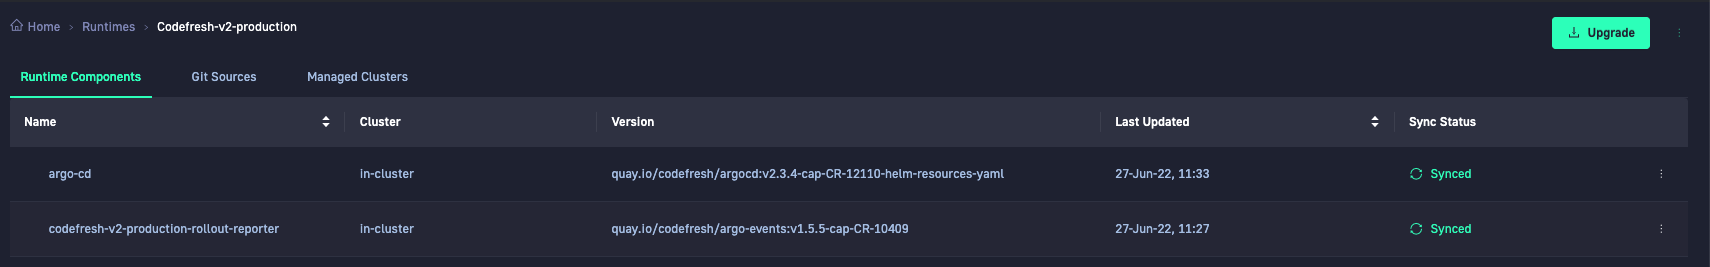
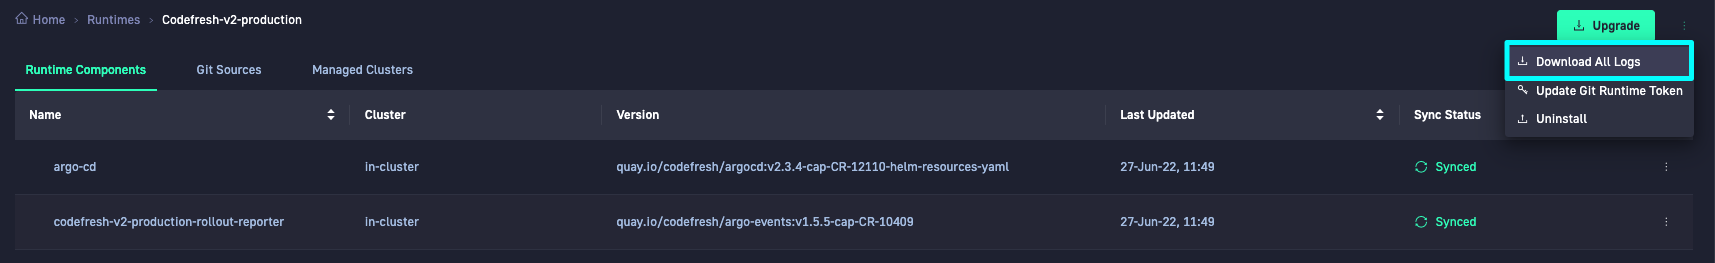
Update whats new and title in toolbar
Fixed captions for runtime screenshots

diff --git a/_includes/docs-navbar.html b/_includes/docs-navbar.html
@@ -38,7 +38,7 @@
         </li>
 -->
         <li class="nav-item">
-          <a class="nav-link" href="{{ site.baseurl }}/docs/whats-new/whats-new/" onclick="ga('send', 'event', 'Navbar', 'Docs links', 'Open Changelog');" >What's new</a>
+          <a class="nav-link" href="{{ site.baseurl }}/docs/whats-new/whats-new/" onclick="ga('send', 'event', 'Navbar', 'Docs links', 'Open Changelog');" >What's New</a>
         </li>
 
         {% comment %}

diff --git a/_docs/whats-new/whats-new.md b/_docs/whats-new/whats-new.md
@@ -33,8 +33,8 @@ Download logs for offline viewing and analysis, or view logs per component onlin
 	lightbox="true" 
 	file="/images/whats-new/rel-notes-june22-runtime-logs-all.png" 
 	url="/images/whats-new/rel-notes-june22-runtime-logs-all.png" 
-	alt="Application Current State: Tree view" 
-	caption="Application Current State: Tree view"
+	alt="Download all logs for a runtime" 
+	caption="Download all logs for a runtime""
    max-width="60%" 
   %}
   
@@ -45,8 +45,8 @@ Download logs for offline viewing and analysis, or view logs per component onlin
 	lightbox="true" 
 	file="/images/whats-new/rel-notes-june22-runtime-log-screen.png" 
 	url="/images/whats-new/rel-notes-june22-runtime-log-screen.png" 
-	alt="Application Current State: Tree view" 
-	caption="Application Current State: Tree view"
+	alt="View logs online for runtime component" 
+	caption="View logs online for runtime component"
    max-width="60%" 
   %}
 
@@ -178,6 +178,8 @@ The Codefresh Hub for Argo has two ready-to-use Workflow Templates that:
 * Creates a PR to run the workflow that tracks the PR
 
 For details, see [Nested workflows]({{site.baseurl}}/docs/pipelines/nested-workflows/).
+
+
 
 ## May 2022
 
